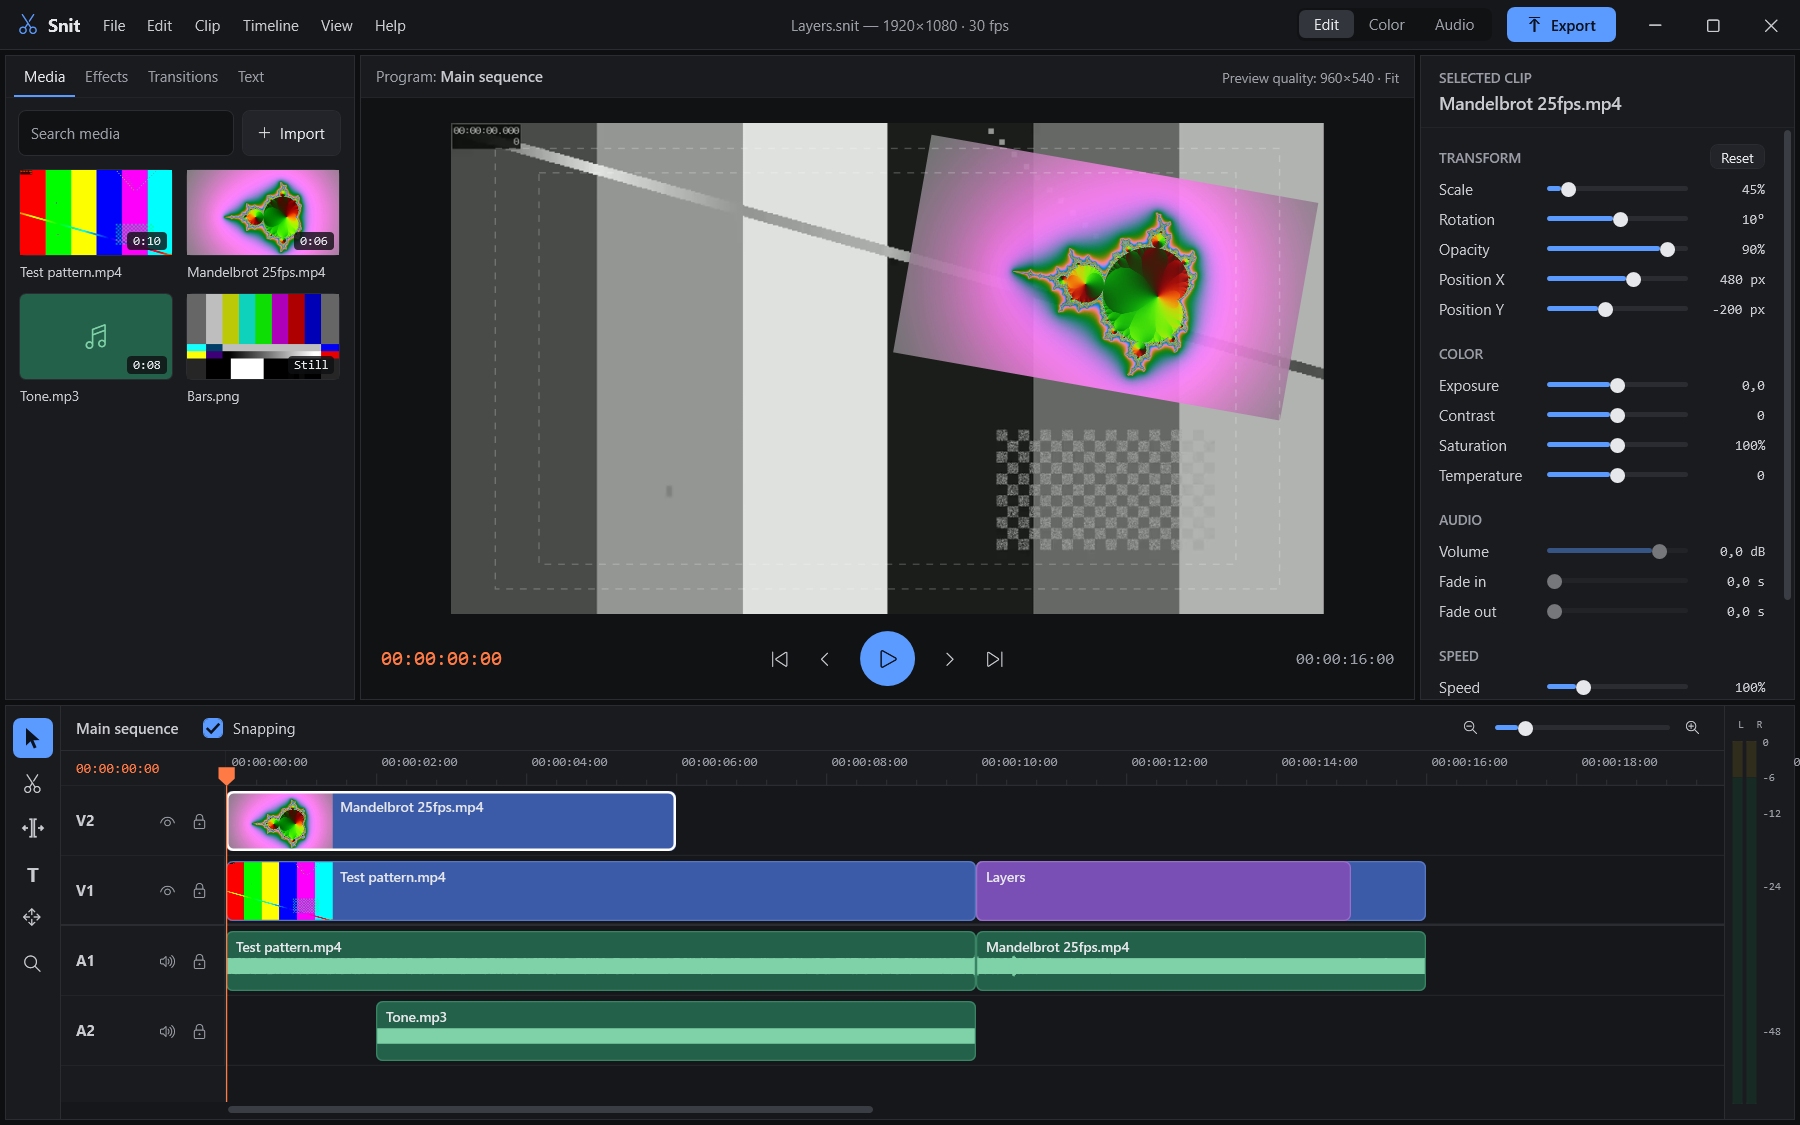
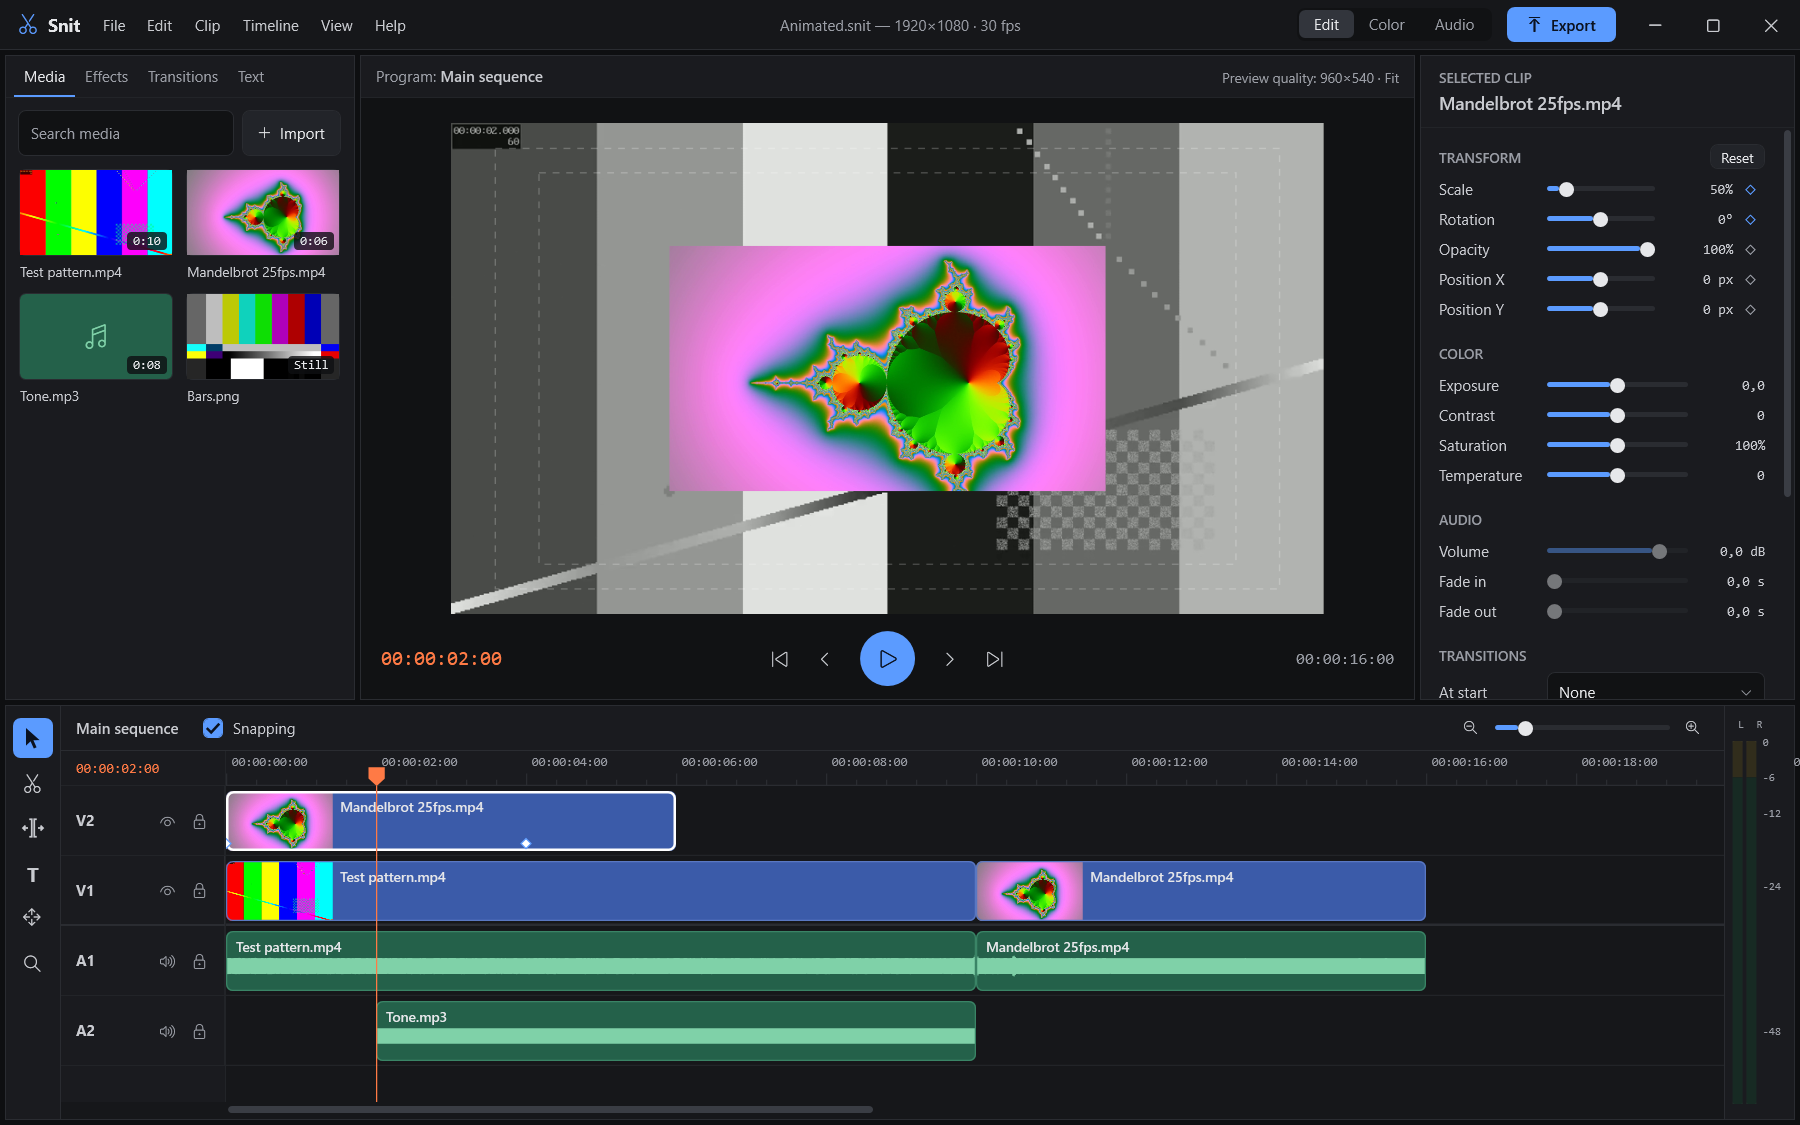
Describe transitions, keyframes, formats and shortcuts in the README, new screenshot

diff --git a/README.md b/README.md
@@ -7,9 +7,9 @@ It's built with C#, WPF and FFmpeg.
 
 ![Snit main window](docs/screenshot.png)
 
-> **Status:** work in progress. You can import media, edit on the timeline, preview with
-> sound, add titles, change size/position/colour/speed of clips, adjust volume and fades,
-> save projects and export to MP4. Transitions, keyframes and more formats are next.
+> **Status:** all six planned phases are in: editing, preview with sound, titles, picture
+> effects with keyframes, speed, transitions, and export to six formats. It is still young
+> software, so keep your original media files safe.
 
 ## What works
 
@@ -25,22 +25,34 @@ It's built with C#, WPF and FFmpeg.
 - **Picture**: scale, rotation, opacity and position (Transform), exposure, contrast,
   saturation and temperature (Colour) per clip in the inspector; the preview stacks the tracks
   so a smaller or see-through clip on V2 shows V1 underneath
+- **Keyframes**: animate scale, rotation, opacity and position with the diamond next to each
+  slider; values change evenly between keyframes
 - **Speed** from 10% to 400% and **reverse**, for video and its sound together
+- **Transitions**: cross-dissolve and dip to black (from the Transitions tab, or Ctrl+D at a cut);
+  the clip's sound cross-fades along. A dissolve uses footage just beyond the cut if the files have it
+- **In and out marks** (I and O) to export just a part of the timeline
 - **Undo / redo** for every timeline edit (one slider drag or one bit of typing is one step)
 - **Projects** saved as `.snit` files (plain JSON; media files are referenced, never copied)
-- **Export** to MP4 (H.264 video, AAC 320 kbps sound) at 720p, 1080p, 4K or vertical 1080×1920,
-  24–60 fps, with a quality slider, a progress bar with time left, and a Stop button.
-  Uses your NVIDIA, Intel or AMD graphics card when it can (needs an up-to-date driver).
+- **Export** to MP4 (H.264 or H.265), WebM (VP9), MOV (ProRes 422 HQ), GIF or MP3 at 720p,
+  1080p, 4K or vertical 1080×1920, 24–60 fps, the whole timeline or just in-to-out, with a
+  quality slider, a progress bar with time left, and a Stop button. H.264/H.265 can use your
+  NVIDIA, Intel or AMD graphics card (needs an up-to-date driver).
 
 ## Keyboard shortcuts
 
 | Key | Action |
 | --- | --- |
 | Space | Play / pause |
+| J / K / L | Play backwards / stop / play forwards (press again to go faster) |
 | ← / → | Previous / next frame |
+| ↑ / ↓ | Previous / next cut |
 | Home / End | Go to start / end |
+| I / O | Mark in / mark out (Ctrl+Shift+X clears both) |
+| V / C / B / T / H / Z | Select / razor / ripple trim / text / hand / zoom tool |
+| S | Snapping on / off |
 | Delete | Delete selected clips (Shift+Delete: ripple delete) |
 | Ctrl+K | Cut clips at the playhead |
+| Ctrl+D | Cross dissolve at the cut nearest the playhead |
 | Ctrl+Z / Ctrl+Shift+Z | Undo / redo |
 | = / - | Zoom timeline in / out (Ctrl+mouse wheel also zooms) |
 | Ctrl+N / Ctrl+O / Ctrl+S | New / open / save project |
